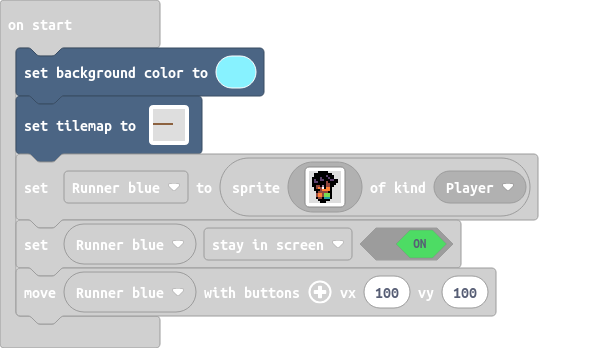
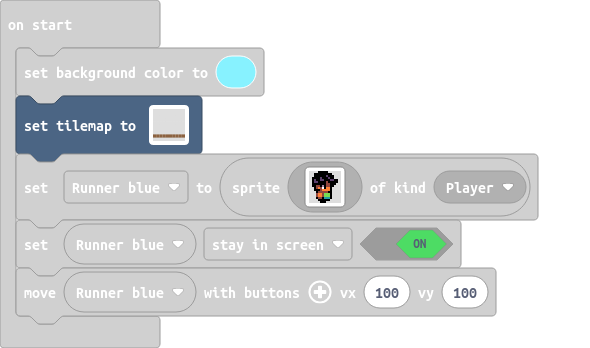
Update main.blocks, main.ts

Changed region(s): [[0.0, 0.1149, 0.4576, 0.3161], [0.2441, 0.3448, 0.3356, 0.4023]]

diff --git a/main.ts b/main.ts
@@ -4,23 +4,15 @@ enum ActionKind {
     Jumping
 }
 scene.setBackgroundColor(9)
-tiles.setTilemap(tiles.createTilemap(hex`1000100000000000000000000000000000000000000000000000000000000000000000000000000000000000000000000000000000000000000000000000000000000000000000000000000000000000000000000000000000000000000000000000000000000000000000000000000000000000010101010101010101010000000000000000000000000000000000000000000000000000000000000000000000000000000000000000000000000000000000000000000000000000000000000000000000000000000000000000000000000000000000000000000000000000000000000000000000000000000000000000000000000000000000000000000000000000`, img`
-    . . . . . . . . . . . . . . . . 
-    . . . . . . . . . . . . . . . . 
-    . . . . . . . . . . . . . . . . 
-    . . . . . . . . . . . . . . . . 
-    . . . . . . . . . . . . . . . . 
-    . . . . . . . . . . . . . . . . 
-    . . . . . . . . . . . . . . . . 
-    . . . . . . . . . . . . . . . . 
-    . . . . . . . . . . . . . . . . 
-    . . . . . . . . . . . . . . . . 
-    . . . . . . . . . . . . . . . . 
-    . . . . . . . . . . . . . . . . 
-    . . . . . . . . . . . . . . . . 
-    . . . . . . . . . . . . . . . . 
-    . . . . . . . . . . . . . . . . 
-    . . . . . . . . . . . . . . . . 
[1 lines of base64/hex data omitted]
+    . . . . . . . . . . 
+    . . . . . . . . . . 
+    . . . . . . . . . . 
+    . . . . . . . . . . 
+    . . . . . . . . . . 
+    . . . . . . . . . . 
+    . . . . . . . . . . 
+    . . . . . . . . . . 
     `, [myTiles.transparency16,myTiles.tile4], TileScale.Sixteen))
 let Runner_blue = sprites.create(img`
     . . . f f f f f . . . . . 
